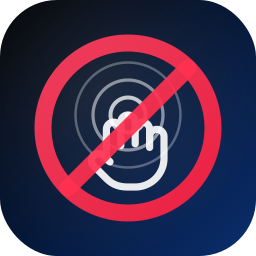
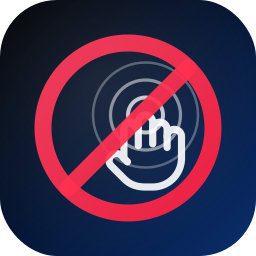
Offset hand and touch ripples ~10% to the right
Shifts the hand, touch point, and ripple rings 70px right so
the fingers are not hidden behind the prohibition slash.

https://claude.ai/code/session_01YUWGoPo78p9cPfcsCbi8uC

diff --git a/scripts/generate_icon.py b/scripts/generate_icon.py
@@ -38,17 +38,17 @@ SVG_ICON = r"""<?xml version="1.0" encoding="UTF-8"?>
   <rect x="0" y="0" width="1024" height="1024" rx="228" ry="228" fill="url(#glow)"/>
 
   <!-- Ripple rings centered at fingertip touch point (brighter for dark bg) -->
-  <circle cx="512" cy="460" r="70" fill="none" stroke="white" stroke-width="16" opacity="0.75"/>
-  <circle cx="512" cy="460" r="140" fill="none" stroke="white" stroke-width="13" opacity="0.50"/>
-  <circle cx="512" cy="460" r="210" fill="none" stroke="white" stroke-width="10" opacity="0.30"/>
+  <circle cx="582" cy="460" r="70" fill="none" stroke="white" stroke-width="16" opacity="0.75"/>
+  <circle cx="582" cy="460" r="140" fill="none" stroke="white" stroke-width="13" opacity="0.50"/>
+  <circle cx="582" cy="460" r="210" fill="none" stroke="white" stroke-width="10" opacity="0.30"/>
 
   <!-- Touch point dot -->
-  <circle cx="512" cy="460" r="12" fill="white" opacity="0.95"/>
+  <circle cx="582" cy="460" r="12" fill="white" opacity="0.95"/>
 
   <!-- Lucide "hand" icon (ISC license), fingers up, coming from bottom -->
-  <!-- 20% smaller: s=14.4. Middle fingertip (12,2) at (512,460). -->
-  <!-- tx=512-12*14.4=339.2, ty=460-2*14.4=431.2 -->
-  <g transform="translate(339.2, 431.2) scale(14.4)"
+  <!-- 20% smaller: s=14.4. Middle fingertip (12,2) at (582,460). -->
+  <!-- tx=582-12*14.4=409.2, ty=460-2*14.4=431.2 -->
+  <g transform="translate(409.2, 431.2) scale(14.4)"
      fill="none" stroke="white" stroke-width="2"
      stroke-linecap="round" stroke-linejoin="round" opacity="0.9">
     <path d="M18 11V6a2 2 0 0 0-2-2a2 2 0 0 0-2 2"/>
